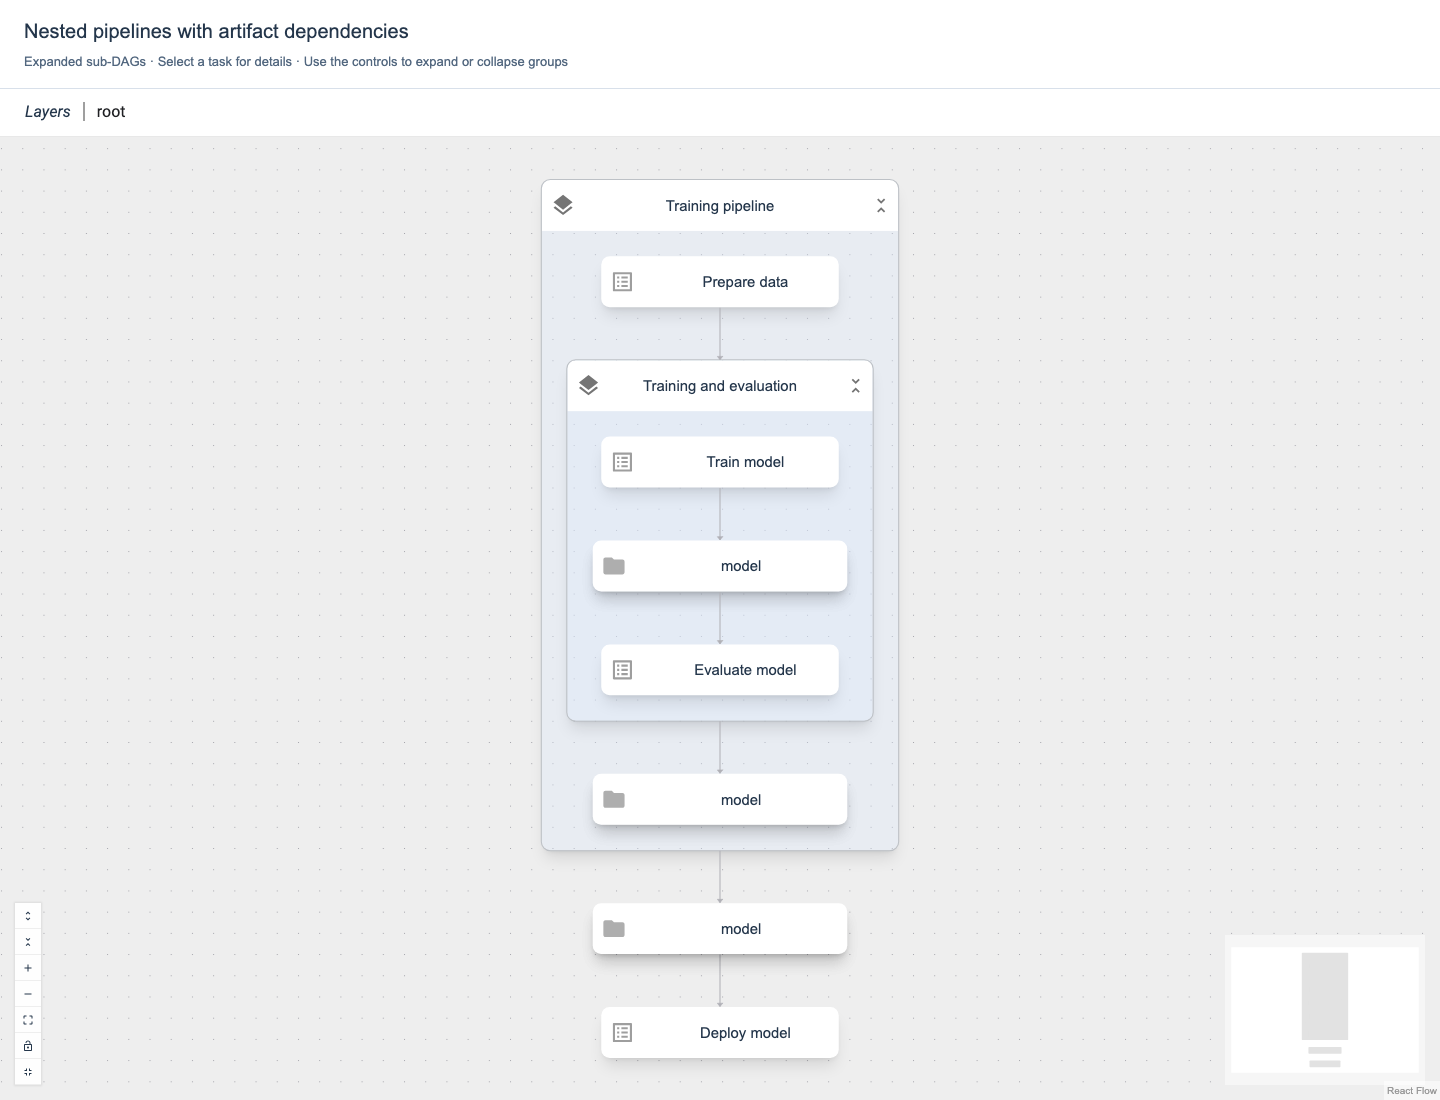
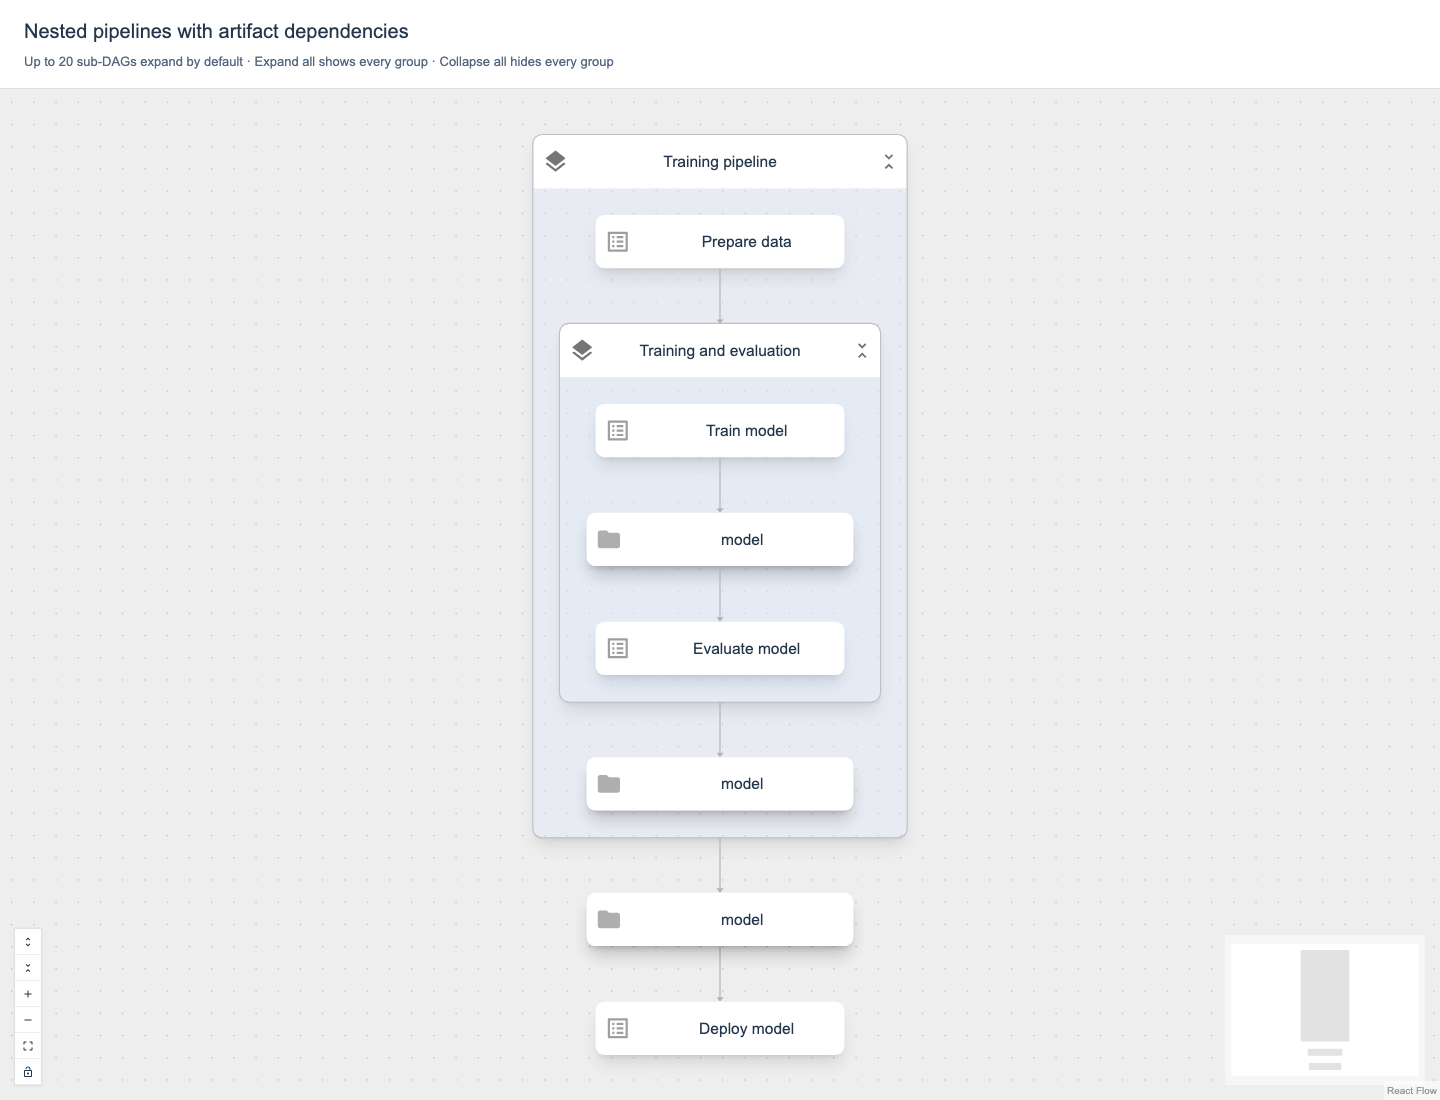
docs: refresh inline DAG screenshots with 25-group partial expansion

diff --git a/screenshots/README.md b/screenshots/README.md
@@ -1,0 +1,37 @@
+# PR #14751 screenshots
+
+Captured locally from code commit [b7aa119782c3a47ff0c3c7484f26cfd812e69d72](https://github.com/droctothorpe/pipelines/commit/b7aa119782c3a47ff0c3c7484f26cfd812e69d72), using the real DagCanvas in Storybook and Chromium. Node 24.14.0; npm 11.17.0. These are not screenshots of an updated Kubernetes deployment. Runtime statuses in the loop example are fixture data.
+
+## 25-sub-DAG comparison
+
+- `twenty-five-subdags-default.png`: default partial expansion, 20 expanded and five collapsed (Groups 20–24 in the bottom row).
+- `twenty-five-subdags-full.png`: the same graph after clicking Expand all, 25 expanded and zero collapsed.
+- `twenty-five-subdags-comparison.png`: labelled side-by-side composition of those two unmodified browser captures.
+- `twenty-five-subdags-validation.json`: asserted browser counts and reload behavior.
+
+Reproduce from `frontend/`:
+
+```sh
+npm run storybook -- --ci
+# In another terminal:
+STORYBOOK_URL=http://localhost:6006 SCREENSHOT_DIR=/tmp/subdag-screenshots \
+  node --test scripts/subdag-expansion.smoke.mjs
+```
+
+## Refreshed gallery
+
+Each example has an expanded/collapsed pair:
+
+- Nested pipelines and artifacts: collapse Training and evaluation.
+- Conditions: collapse both branches.
+- Runtime iterations: collapse sweep.0 and sweep.1, retaining the loop.
+- Nested loops: collapse for-loop-2 and for-loop-14.
+- Exit handler: collapse my-pipeline and condition-1.
+
+`gallery-validation.json` records visible group/node counts, bulk-action checks, and lock/selection checks. All screenshots show the six-button inline-only palette, with no graph breadcrumbs or rendering-mode toggle. Obsolete legacy/deployed captures have been removed from this branch's current tree; earlier pinned commits still retain their original images.
+
+## Validation
+
+- Full frontend unit suite: 135 files, 1,765 tests passed.
+- Production build (including UI/server lint and TypeScript), format check, and git diff check passed.
+- 25-sub-DAG browser regression and five-example browser gallery passed.
